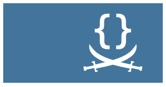
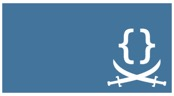
css

Changed region(s): [[0.0, 0.023, 0.994, 0.9885], [0.5422, 0.1379, 0.6627, 0.5747]]

diff --git a/MD/css揭秘学习.md b/MD/css揭秘学习.md
@@ -49,7 +49,11 @@ jQuery方法(width举例)：
 		
 ####边框：半透明边框（background-clip属性应用）
 
-	background-clip: padding-box;
+	background-clip: border-box|padding-box|content-box;
+	
+- border-box：背景被裁剪到边框盒。
+- padding-box：背景被裁剪到内边距框。
+- content-box：背景被裁剪到内容框。
 	
 示例：一个容器设置一层白色背景和一道半透明白色边框
 
@@ -182,6 +186,8 @@ box-shadow 是层层叠加的,**第一层投影位于最顶层**,依次类推。
 4. box-shadow方案`只能模拟实线边框`
 
 ####背景：灵活的背景定位
+需求：针对容器某个角对背景图片做偏移定位
+
 **无border**
 
 ![](../images/css/background_img_1.png)
@@ -211,13 +217,77 @@ css3 允许指定背景图片距离任意角的偏移量，只要在偏移量前
 
 ![](../images/css/background_img_2.png)
 
-	background: #58a url(../images/css/code-pirate.svg) bottom right no-repeat;
-	background-position: bottom 10px right 20px;
+	padding: 5px;
+    background: #58a url(http://csssecrets.io/images/code-pirate.svg) bottom right no-repeat;
+    background-position: bottom 5px right 5px;
 	
 注：由于有些浏览器不支持background-position偏移量，需要进行兼容处理，即将定位值写进background的简写属性，如不指定会出现background-position属性无效，背景图片会紧贴在左上角。
 
 #####background-origin
+background-position偏移的方式，代码不够DRY:每次改动内边距的值时,我们都需要在三个地方更新这个值。通过background-origin方式实现等效代码，只需通过padding即可同时改版背景的偏移大小。
+
+	padding: 5px;
+	background: #58a url(http://csssecrets.io/images/code-pirate.svg) bottom right no-repeat;
+	background-origin: content-box;
+	
+注：
+
+	background-origin: padding-box|border-box|content-box;
+	
+- padding-box：背景图像相对于内边距框来定位（默认）。
+- border-box：背景图像相对于边框盒来定位。
+- content-box：背景图像相对于内容框来定位。
+
 #####calc()
+calc() 函数内部的 `-` 和 `+` 运算符的两侧各加一个空白符,否则会产生解析错误!这个规则如此怪异,是为了向前兼容:
+
+	padding: 5px;
+	background: #58a url(http://csssecrets.io/images/code-pirate.svg) bottom right no-repeat;
+	background-position: calc(100% - 5px) calc(100% - 5px);
+	
+####边框内圆角
+示例：一个容器,只在内侧有圆角,而边框或描边的四个角在外部仍然保持直角的形状。
+
+![](../images/css/border_innerRadius_1.png)
+
+**两个元素实现方式**
+
+	.box {
+	    width: 10em;
+	    padding: .8em;
+	    background: #655;
+	}
+	.box div{
+	    padding:1em;
+	    background: tan;
+	    border-radius: .4em;
+	}
+	
+	<div class="box">
+	    <div>
+	        内边框圆角
+	    </div>
+	</div>
+
+![](../images/css/border_innerRadius_2.png)
+
+**如何用一个元素实现方式**
+
+	.box {
+	   width: 10em;
+	   padding: 1em;
+	   background: tan;
+	   border-radius: .4em;
+	   outline: .8em solid #655;
+	   box-shadow: 0 0 0 .2em #655;
+	}
+	<div class="box">
+		内边框圆角
+	</div>
+	
+注：box-shadow 属性指定的扩张值并不一定等于描边的宽度,我们只需要指定一个足够填补“空隙”的扩张值就可以了。事实上,指定一个等于描边宽度的扩张值在某些浏览器中可能会得到渲染异常,因此我推荐一个稍小些的值。
+
+####条纹背景
 
 
 
